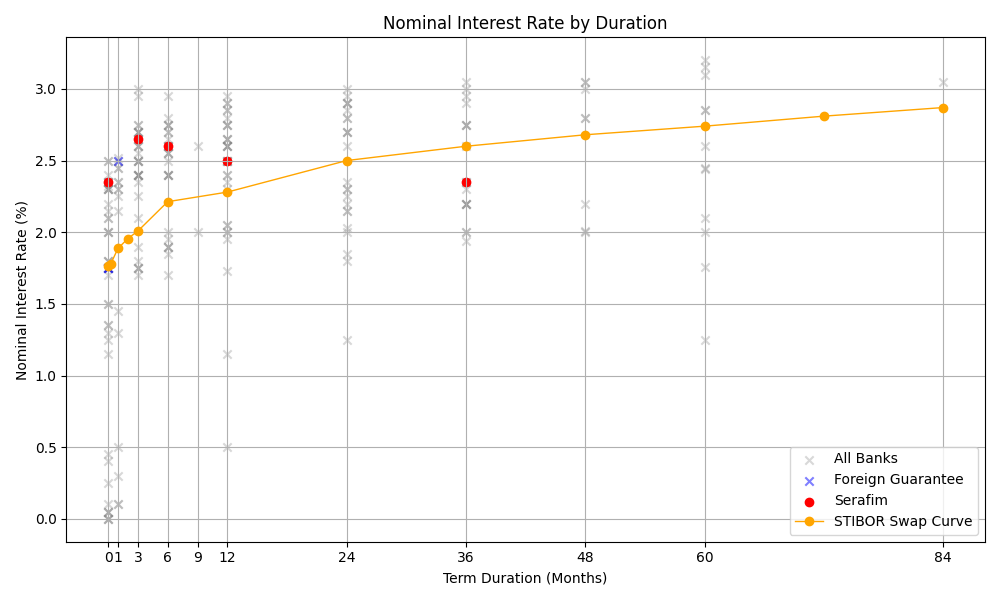
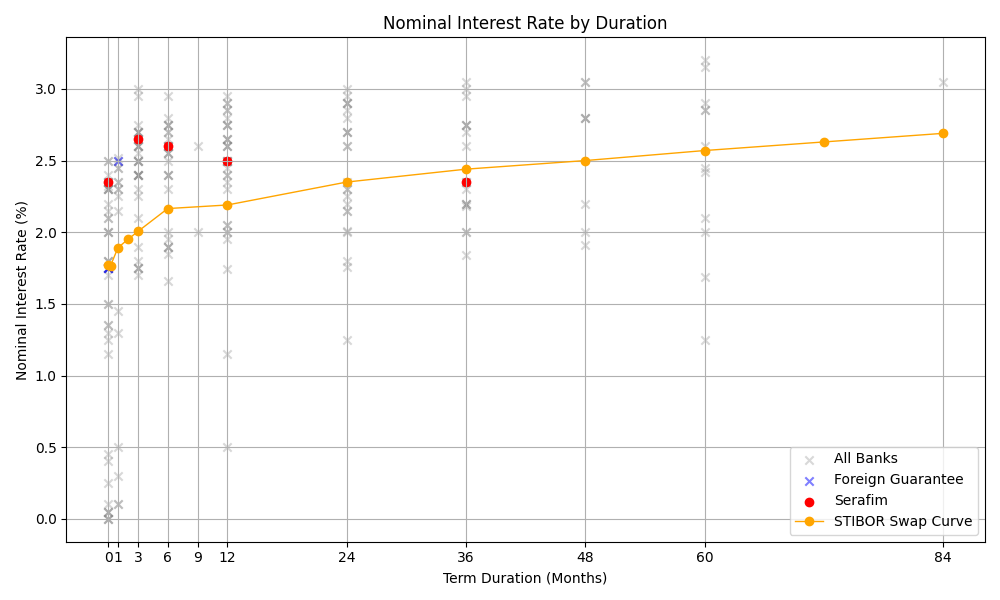
upd

diff --git a/Serafim/index.html b/Serafim/index.html
@@ -81,7 +81,7 @@
 
     <h1>Competitor Overview - Serafim</h1>
     <div style="text-align: right; color: #555; font-size: 0.9em;">
-        Updated: 2026-05-26
+        Updated: 2026-05-27
     </div>
     
     <!-- Tab buttons -->
@@ -141,7 +141,7 @@
       <th>Fedelta</th>
       <td>2.50</td>
       <td>-</td>
-      <td>2.75</td>
+      <td>2.60 (-0.15)</td>
       <td>2.70</td>
       <td>-</td>
       <td>2.80</td>
@@ -253,8 +253,8 @@
       <th>Coeli</th>
       <td>2.30</td>
       <td>-</td>
-      <td>3.00 (+0.40)</td>
-      <td>2.95 (+0.40)</td>
+      <td>3.00</td>
+      <td>2.95</td>
       <td>-</td>
       <td>2.60</td>
       <td>-</td>
@@ -561,14 +561,14 @@
       <th>SBAB Bank</th>
       <td>1.25</td>
       <td>-</td>
-      <td>2.35</td>
-      <td>2.40</td>
+      <td>2.30 (-0.05)</td>
+      <td>2.30 (-0.10)</td>
       <td>-</td>
-      <td>2.60</td>
-      <td>2.80</td>
-      <td>2.90</td>
-      <td>3.00</td>
-      <td>3.10</td>
+      <td>2.45 (-0.15)</td>
+      <td>2.60 (-0.20)</td>
+      <td>2.70 (-0.20)</td>
+      <td>2.80 (-0.20)</td>
+      <td>2.90 (-0.20)</td>
       <td>-</td>
     </tr>
     <tr>
@@ -660,13 +660,13 @@
       <td>0.05</td>
       <td>2.15</td>
       <td>1.75</td>
-      <td>1.70</td>
+      <td>1.66 (-0.04)</td>
       <td>-</td>
-      <td>1.73 (-0.08)</td>
-      <td>2.03 (-0.11)</td>
-      <td>2.20 (-0.12)</td>
+      <td>1.74 (+0.01)</td>
+      <td>2.01 (-0.02)</td>
+      <td>2.18 (-0.02)</td>
       <td>-</td>
-      <td>2.44 (-0.12)</td>
+      <td>2.42 (-0.02)</td>
       <td>-</td>
     </tr>
     <tr>
@@ -719,10 +719,10 @@
       <td>1.90</td>
       <td>-</td>
       <td>2.05</td>
-      <td>1.85 (-0.08)</td>
-      <td>1.94 (-0.09)</td>
-      <td>2.01 (-0.10)</td>
-      <td>1.76 (-0.07)</td>
+      <td>1.76 (-0.09)</td>
+      <td>1.84 (-0.10)</td>
+      <td>1.91 (-0.10)</td>
+      <td>1.69 (-0.07)</td>
       <td>-</td>
     </tr>
     <tr>
@@ -794,17 +794,31 @@
   </thead>
   <tbody>
     <tr>
-      <th>Coeli</th>
-      <td>2.30</td>
+      <th>Fedelta</th>
+      <td>2.50</td>
       <td>-</td>
-      <td>3.00 (+0.40)</td>
-      <td>2.95 (+0.40)</td>
+      <td>2.60 (-0.15)</td>
+      <td>2.70</td>
       <td>-</td>
-      <td>2.60</td>
+      <td>2.80</td>
+      <td>2.00</td>
+      <td>2.00</td>
+      <td>2.00</td>
+      <td>2.00</td>
       <td>-</td>
+    </tr>
+    <tr>
+      <th>SBAB Bank</th>
+      <td>1.25</td>
       <td>-</td>
+      <td>2.30 (-0.05)</td>
+      <td>2.30 (-0.10)</td>
       <td>-</td>
-      <td>-</td>
+      <td>2.45 (-0.15)</td>
+      <td>2.60 (-0.20)</td>
+      <td>2.70 (-0.20)</td>
+      <td>2.80 (-0.20)</td>
+      <td>2.90 (-0.20)</td>
       <td>-</td>
     </tr>
     <tr>
@@ -812,13 +826,13 @@
       <td>0.05</td>
       <td>2.15</td>
       <td>1.75</td>
-      <td>1.70</td>
+      <td>1.66 (-0.04)</td>
       <td>-</td>
-      <td>1.73 (-0.08)</td>
-      <td>2.03 (-0.11)</td>
-      <td>2.20 (-0.12)</td>
+      <td>1.74 (+0.01)</td>
+      <td>2.01 (-0.02)</td>
+      <td>2.18 (-0.02)</td>
       <td>-</td>
-      <td>2.44 (-0.12)</td>
+      <td>2.42 (-0.02)</td>
       <td>-</td>
     </tr>
     <tr>
@@ -829,10 +843,10 @@
       <td>1.90</td>
       <td>-</td>
       <td>2.05</td>
-      <td>1.85 (-0.08)</td>
-      <td>1.94 (-0.09)</td>
-      <td>2.01 (-0.10)</td>
-      <td>1.76 (-0.07)</td>
+      <td>1.76 (-0.09)</td>
+      <td>1.84 (-0.10)</td>
+      <td>1.91 (-0.10)</td>
+      <td>1.69 (-0.07)</td>
       <td>-</td>
     </tr>
   </tbody>
